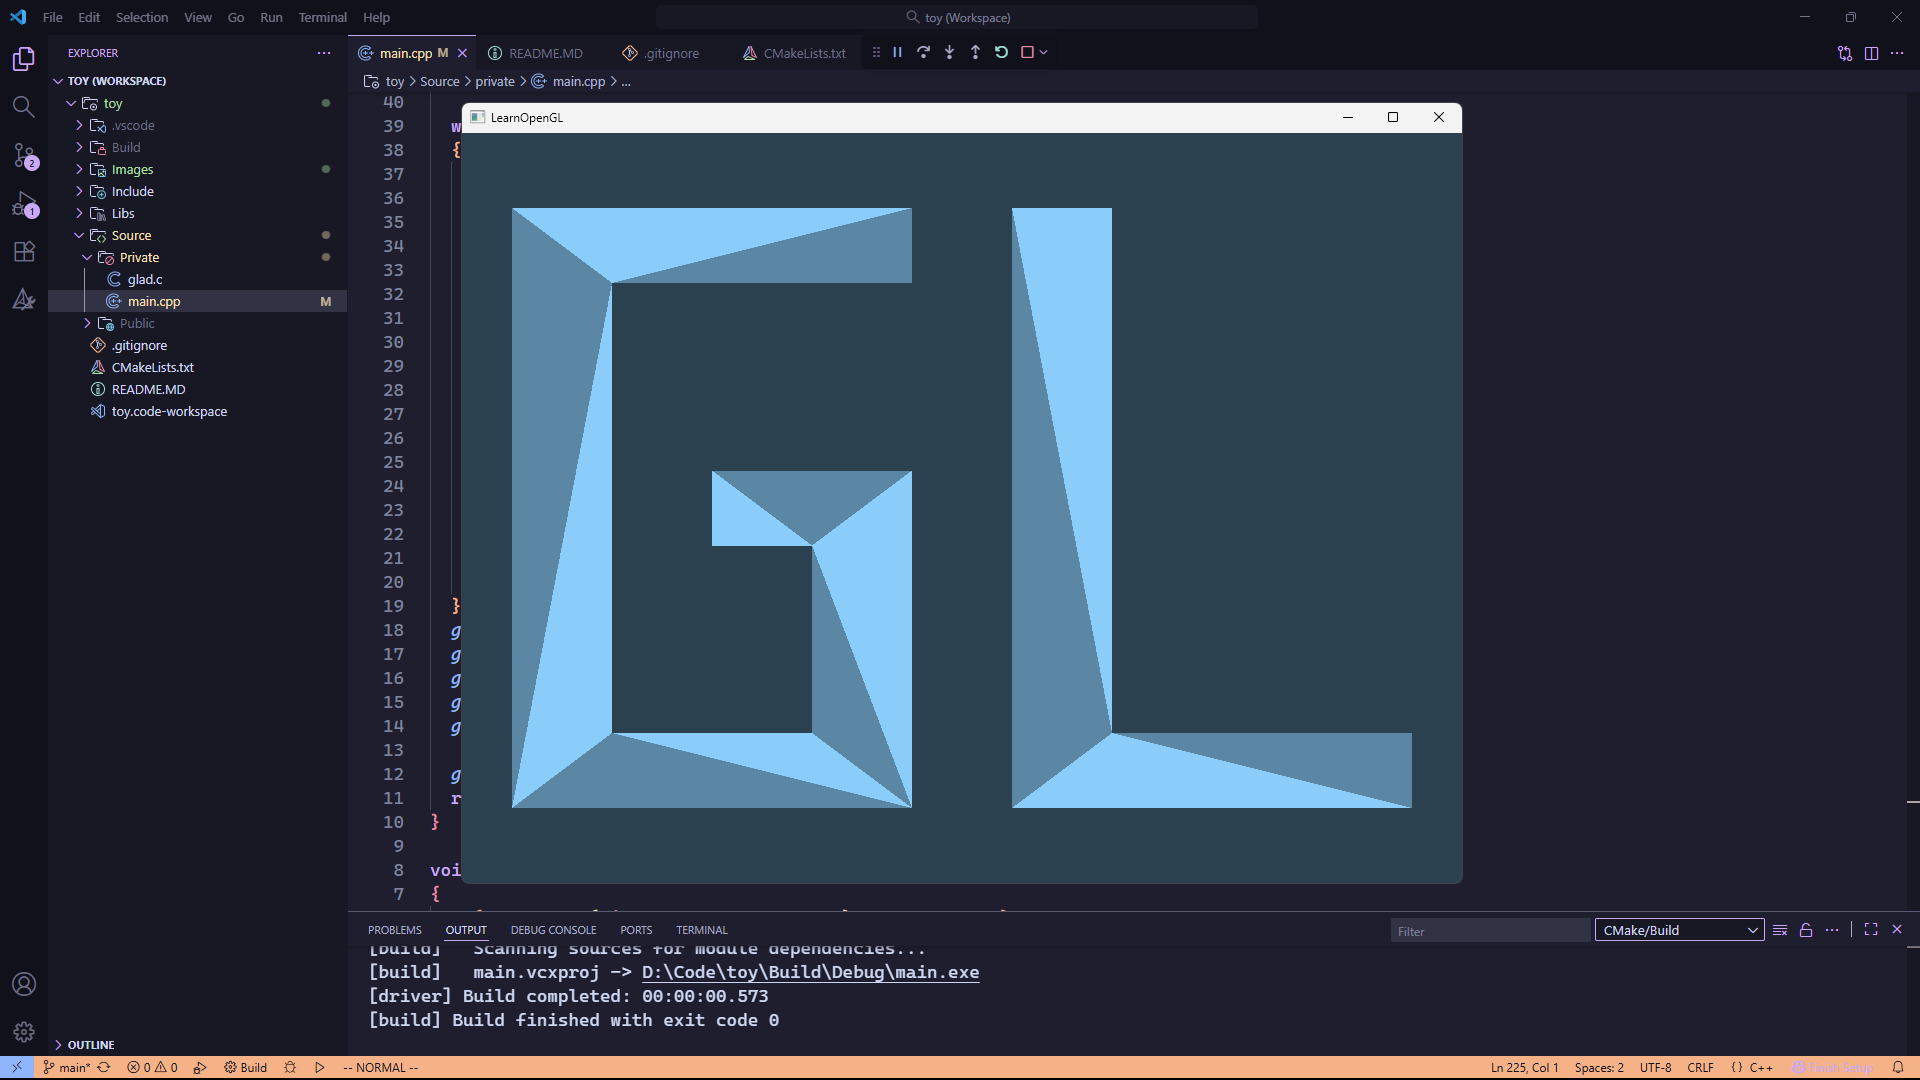
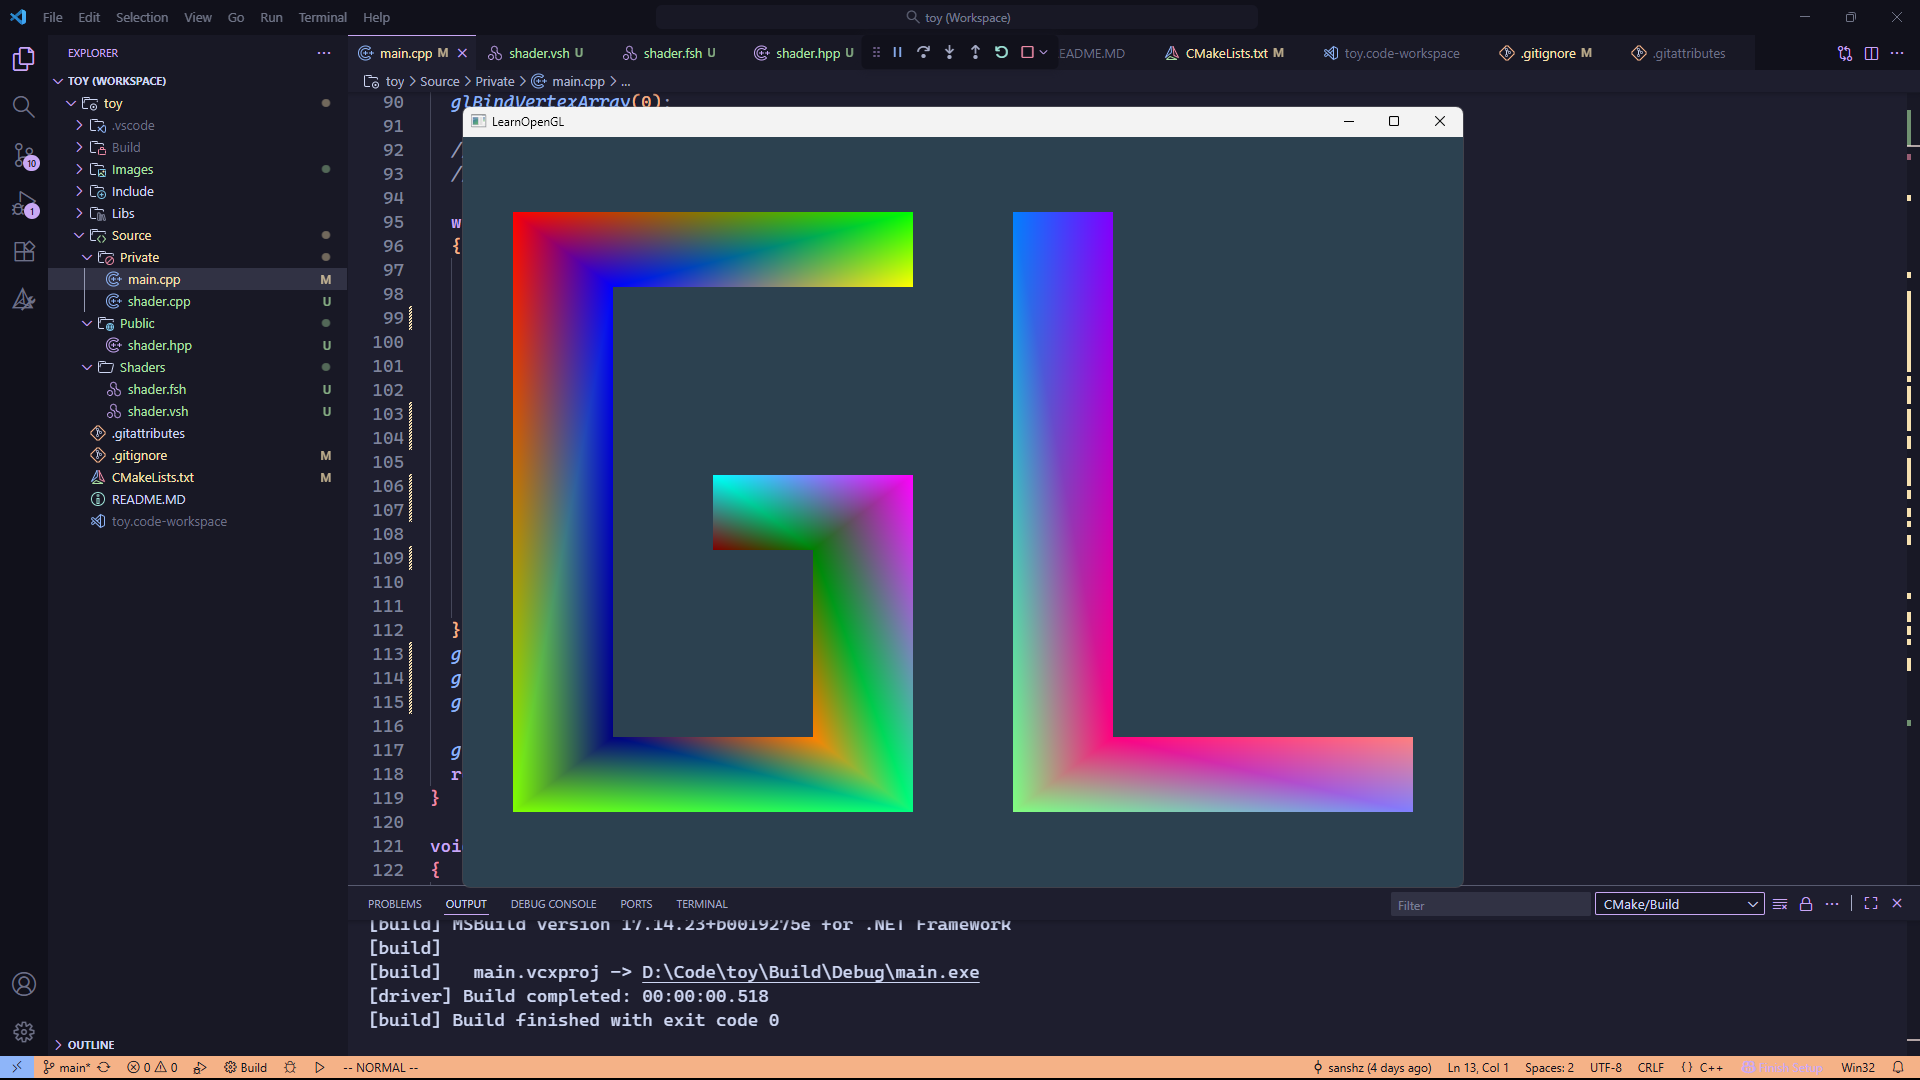
`Shader` class and `GLSL` also `uniform`

diff --git a/Source/Private/main.cpp b/Source/Private/main.cpp
@@ -3,38 +3,16 @@
 
 #include <iostream>
 
+#include "shader.hpp"
+
+namespace Screen
+{
+  const unsigned int width {1000};
+  const unsigned int height {750};
+}
+
 void framebuffer_size_callback(GLFWwindow* window, int width, int height);
 void processInput(GLFWwindow* window);
-
-const char* vertexShaderSource 
-{
-  "#version 330 core\n"
-  "layout (location = 0) in vec3 aPos;\n"
-  "void main()\n"
-  "{\n"
-  "  gl_Position = vec4(aPos.x, aPos.y, aPos.z, 1.0f);\n"
-  "}\0"
-};
-
-const char* fragmentShaderSourceA
-{
-  "#version 330 core\n"
-  "out vec4 FragColor;\n"
-  "void main()\n"
-  "{\n"
-  "  FragColor = vec4(0.3568f, 0.5294f, 0.6470f, 1.0f);\n"
-  "}\0"
-};
-
-const char* fragmentShaderSourceB
-{
-  "#version 330 core\n"
-  "out vec4 FragColor;\n"
-  "void main()\n"
-  "{\n"
-  "  FragColor = vec4(0.5411f, 0.8039f, 0.9803f, 1.0f);\n"
-  "}\0"
-};
 
 int main()
 {
@@ -43,7 +21,7 @@ int main()
   glfwWindowHint(GLFW_CONTEXT_VERSION_MINOR, 3);
   glfwWindowHint(GLFW_OPENGL_PROFILE, GLFW_OPENGL_CORE_PROFILE);
 
-  GLFWwindow* window {glfwCreateWindow(800, 600, "LearnOpenGL", NULL, NULL)};
+  GLFWwindow* window {glfwCreateWindow(Screen::width, Screen::height, "LearnOpenGL", NULL, NULL)};
   if (window == NULL)
   {
     std::cout << "Failed to create GLFW window" << std::endl;
@@ -60,121 +38,66 @@ int main()
     return -1;
   }
 
-  unsigned int vertexShader {glCreateShader(GL_VERTEX_SHADER)};
-  glShaderSource(vertexShader, 1, &vertexShaderSource, NULL);
-  glCompileShader(vertexShader);
-
-  int success;
-  char infoLog[512];
-  glGetShaderiv(vertexShader, GL_COMPILE_STATUS, &success);
-  if(!success)
-  {
-    glGetShaderInfoLog(vertexShader, 512, NULL, infoLog);
-    std::cout << "ERROR::SHADER::VERTEX::COMPILATION_FAILED\n" << infoLog << std::endl;
-  }
-
-  unsigned int fragmentShaderA {glCreateShader(GL_FRAGMENT_SHADER)};
-  glShaderSource(fragmentShaderA, 1, &fragmentShaderSourceA, NULL);
-  glCompileShader(fragmentShaderA);
-
-  glGetShaderiv(fragmentShaderA, GL_COMPILE_STATUS, &success);
-  if(!success)
-  {
-    glGetShaderInfoLog(fragmentShaderA, 512, NULL, infoLog);
-    std::cout << "ERROR::SHADER::FRAGMENT::COMPILATION_FAILED\n" << infoLog << std::endl;
-  }
-
-  unsigned int fragmentShaderB {glCreateShader(GL_FRAGMENT_SHADER)};
-  glShaderSource(fragmentShaderB, 1, &fragmentShaderSourceB, NULL);
-  glCompileShader(fragmentShaderB);
-
-  unsigned int shaderProgramA {glCreateProgram()};
-  glAttachShader(shaderProgramA, vertexShader);
-  glAttachShader(shaderProgramA, fragmentShaderA);
-  glLinkProgram(shaderProgramA);
-
-  glGetProgramiv(shaderProgramA, GL_LINK_STATUS, &success);
-  if(!success)
-  {
-    glGetProgramInfoLog(shaderProgramA, 512, NULL, infoLog);
-    std::cout << "ERROR::SHADER::LINK_FAILED\n" << infoLog << std::endl;
-  }
-
-  unsigned int shaderProgramB {glCreateProgram()};
-  glAttachShader(shaderProgramB, vertexShader);
-  glAttachShader(shaderProgramB, fragmentShaderB);
-  glLinkProgram(shaderProgramB);
-
-  glDeleteShader(vertexShader);
-  glDeleteShader(fragmentShaderA);
-  glDeleteShader(fragmentShaderB);
+  Shader myShader {"..\\..\\Source\\Shaders\\shader.vsh", "..\\..\\Source\\Shaders\\shader.fsh"};
 
   float vertices[]
   {
-    -0.9f,  0.8f, 0.0f,
-    -0.1f,  0.8f, 0.0f,
-    -0.7f,  0.6f, 0.0f,
-    -0.1f,  0.6f, 0.0f,
-    -0.5f,  0.1f, 0.0f,
-    -0.1f,  0.1f, 0.0f,
-    -0.5f, -0.1f, 0.0f,
-    -0.3f, -0.1f, 0.0f,
-    -0.7f, -0.6f, 0.0f,
-    -0.3f, -0.6f, 0.0f,
-    -0.9f, -0.8f, 0.0f,
-    -0.1f, -0.8f, 0.0f,
-     0.1f,  0.8f, 0.0f,
-     0.3f,  0.8f, 0.0f,
-     0.3f, -0.6f, 0.0f,
-     0.9f, -0.6f, 0.0f,
-     0.1f, -0.8f, 0.0f,
-     0.9f, -0.8f, 0.0f
+    -0.9f,  0.8f, 0.0f, 1.0f, 0.0f, 0.0f,
+    -0.1f,  0.8f, 0.0f, 0.0f, 1.0f, 0.0f,
+    -0.7f,  0.6f, 0.0f, 0.0f, 0.0f, 1.0f,
+    -0.1f,  0.6f, 0.0f, 1.0f, 1.0f, 0.0f,
+    -0.5f,  0.1f, 0.0f, 0.0f, 1.0f, 1.0f,
+    -0.1f,  0.1f, 0.0f, 1.0f, 0.0f, 1.0f,
+    -0.5f, -0.1f, 0.0f, 0.5f, 0.0f, 0.0f,
+    -0.3f, -0.1f, 0.0f, 0.0f, 0.5f, 0.0f,
+    -0.7f, -0.6f, 0.0f, 0.0f, 0.0f, 0.5f,
+    -0.3f, -0.6f, 0.0f, 1.0f, 0.5f, 0.0f,
+    -0.9f, -0.8f, 0.0f, 0.5f, 1.0f, 0.0f,
+    -0.1f, -0.8f, 0.0f, 0.0f, 1.0f, 0.5f,
+     0.1f,  0.8f, 0.0f, 0.0f, 0.5f, 1.0f,
+     0.3f,  0.8f, 0.0f, 0.5f, 0.0f, 1.0f,
+     0.3f, -0.6f, 0.0f, 1.0f, 0.0f, 0.5f,
+     0.9f, -0.6f, 0.0f, 1.0f, 0.5f, 0.5f,
+     0.1f, -0.8f, 0.0f, 0.5f, 1.0f, 0.5f,
+     0.9f, -0.8f, 0.0f, 0.5f, 0.5f, 1.0f
   };
-  unsigned int indicesA[]
+  unsigned int indices[]
   {
-     1,  3,  2,
-     2,  0, 10,
-    10,  8, 11,
-    11,  9,  7,
-     7,  5,  4,
-    12, 16, 14,
-    14, 15, 17,
-  };
-  unsigned int indicesB[]
-  {
-     1,  0,  2,
-     2, 10,  8,
+     0,  1,  2,
+     1,  2,  3,
+     2,  8, 10,
+     0,  2, 10,
      8,  9, 11,
-    11,  5,  7,
-     7,  6,  4,
+     8, 10, 11,
+     5,  7, 11,
+     7,  9, 11,
+     4,  6,  7,
+     4,  5,  7,
     12, 13, 14,
-    14, 16, 17
+    12, 14, 16,
+    14, 16, 17,
+    14, 15, 17
   };
 
-  unsigned int VAO[2];
-  unsigned int VBO[2];
-  unsigned int EBO[2];
-  glGenVertexArrays(2, VAO);
-  glGenBuffers(2, VBO);
-  glGenBuffers(2, EBO);
+  unsigned int VAO;
+  unsigned int VBO;
+  unsigned int EBO;
+  glGenVertexArrays(1, &VAO);
+  glGenBuffers(1, &VBO);
+  glGenBuffers(1, &EBO);
 
-  glBindVertexArray(VAO[0]);
-  glBindBuffer(GL_ARRAY_BUFFER, VBO[0]);
+  glBindVertexArray(VAO);
+  glBindBuffer(GL_ARRAY_BUFFER, VBO);
   glBufferData(GL_ARRAY_BUFFER, sizeof(vertices), vertices, GL_STATIC_DRAW);
 
-  glBindBuffer(GL_ELEMENT_ARRAY_BUFFER, EBO[0]);
-  glBufferData(GL_ELEMENT_ARRAY_BUFFER, sizeof(indicesA), indicesA, GL_STATIC_DRAW);
+  glBindBuffer(GL_ELEMENT_ARRAY_BUFFER, EBO);
+  glBufferData(GL_ELEMENT_ARRAY_BUFFER, sizeof(indices), indices, GL_STATIC_DRAW);
 
-  glVertexAttribPointer(0, 3, GL_FLOAT, GL_FALSE, 3 * sizeof(float), (void*)0);
+  glVertexAttribPointer(0, 3, GL_FLOAT, GL_FALSE, 6 * sizeof(float), (void*)0);
   glEnableVertexAttribArray(0);
 
-  glBindVertexArray(VAO[1]);
-  glBindBuffer(GL_ARRAY_BUFFER, VBO[1]);
-  glBufferData(GL_ARRAY_BUFFER, sizeof(vertices), vertices, GL_STATIC_DRAW);
-  glBindBuffer(GL_ELEMENT_ARRAY_BUFFER, EBO[1]);
-  glBufferData(GL_ELEMENT_ARRAY_BUFFER, sizeof(indicesB), indicesB, GL_STATIC_DRAW);
-  glVertexAttribPointer(0, 3, GL_FLOAT, GL_FALSE, 3 * sizeof(float), (void*)0);
-  glEnableVertexAttribArray(0);
+  glVertexAttribPointer(1, 3, GL_FLOAT, GL_FALSE, 6 * sizeof(float), (void*)(3 * sizeof(float)));
+  glEnableVertexAttribArray(1);
 
   glBindBuffer(GL_ARRAY_BUFFER, 0);
   glBindVertexArray(0);
@@ -186,28 +109,23 @@ int main()
   {
     // input
     processInput(window);
-
+    
     // rendering
     glClearColor(0.1725f, 0.2549f, 0.3137f, 1.0f);
     glClear(GL_COLOR_BUFFER_BIT);
+    
+    myShader.use();
 
-    glUseProgram(shaderProgramA);
-    glBindVertexArray(VAO[0]);
-    glDrawElements(GL_TRIANGLES, 21, GL_UNSIGNED_INT, 0);
+    glBindVertexArray(VAO);
+    glDrawElements(GL_TRIANGLES, std::size(indices), GL_UNSIGNED_INT, 0);
 
-    glUseProgram(shaderProgramB);
-    glBindVertexArray(VAO[1]);
-    glDrawElements(GL_TRIANGLES, 21, GL_UNSIGNED_INT, 0);
-
-    // check and call events and swap the buffers
+    // swap the buffers and check and call events
     glfwSwapBuffers(window);
     glfwPollEvents();
   }
-  glDeleteVertexArrays(2, VAO);
-  glDeleteBuffers(2, VBO);
-  glDeleteBuffers(2, EBO);
-  glDeleteProgram(shaderProgramA);
-  glDeleteProgram(shaderProgramB);
+  glDeleteVertexArrays(1, &VAO);
+  glDeleteBuffers(1, &VBO);
+  glDeleteBuffers(1, &EBO);
 
   glfwTerminate();
   return 0;
@@ -219,5 +137,6 @@ void processInput(GLFWwindow* window)
   { glfwSetWindowShouldClose(window, true); }
 
 }
+
 void framebuffer_size_callback(GLFWwindow* window, int width, int height)
 { glViewport(0, 0, width, height); }

diff --git a/Source/Private/shader.cpp b/Source/Private/shader.cpp
@@ -1,0 +1,91 @@
+#include "shader.hpp"
+
+#include <fstream>
+#include <sstream>
+#include <iostream>
+
+#include "glad/glad.h"
+
+Shader::Shader(const char* vertexPath, const char* fragmentPath)
+{
+  std::string vertexCode;
+  std::string fragmentCode;
+  std::ifstream vShaderFile;
+  std::ifstream fShaderFile;
+
+  vShaderFile.exceptions(std::ifstream::failbit | std::ifstream::badbit);
+  fShaderFile.exceptions(std::ifstream::failbit | std::ifstream::badbit);
+  try
+  {
+    vShaderFile.open(vertexPath);
+    fShaderFile.open(fragmentPath);
+    std::stringstream vShaderStream, fShaderStream;
+
+    vShaderStream << vShaderFile.rdbuf();
+    fShaderStream << fShaderFile.rdbuf();
+
+    vShaderFile.close();
+    fShaderFile.close();
+
+    vertexCode = vShaderStream.str();
+    fragmentCode = fShaderStream.str();
+  }
+  catch(std::ifstream::failure e)
+  { std::cout << "ERROR::SHADER::FILE_NOT_SUCCESSFULLY_READ" << std::endl; }
+
+  const char* vShaderCode {vertexCode.c_str()};
+  const char* fShaderCode {fragmentCode.c_str()};
+
+  // Compile Shaders
+  int success;
+  char infoLog[512];
+
+  unsigned int vertex {glCreateShader(GL_VERTEX_SHADER)};
+  glShaderSource(vertex, 1, &vShaderCode, NULL);
+  glCompileShader(vertex);
+
+  glGetShaderiv(vertex, GL_COMPILE_STATUS, &success);
+  if (!success)
+  {
+    glGetShaderInfoLog(vertex, 512, NULL, infoLog);
+    std::cout << "ERROR::SHADER::VERTEX::COMPILATION_FAILED\n" << infoLog << std::endl;
+  }
+
+  unsigned int fragment {glCreateShader(GL_FRAGMENT_SHADER)};
+  glShaderSource(fragment, 1, &fShaderCode, NULL);
+  glCompileShader(fragment);
+
+  glGetShaderiv(fragment, GL_COMPILE_STATUS, &success);
+  if (!success)
+  {
+    glGetShaderInfoLog(fragment, 512, NULL, infoLog);
+    std::cout << "ERROR:SHADER::FRAGMENT::COMPILATION_FAILED\n" << infoLog << std::endl;
+  }
+
+  m_ID = glCreateProgram();
+  glAttachShader(m_ID, vertex);
+  glAttachShader(m_ID, fragment);
+  glLinkProgram(m_ID);
+
+  glGetProgramiv(m_ID, GL_LINK_STATUS, &success);
+  if (!success)
+  {
+    glGetProgramInfoLog(m_ID, 512, NULL, infoLog);
+    std::cout << "ERROR::SHADER::PROGRAM::LINKING_FAILED\n" << infoLog << std::endl;
+  }
+
+  glDeleteShader(vertex);
+  glDeleteShader(fragment);
+}
+
+void Shader::use()
+{ glUseProgram(m_ID); }
+
+void Shader::setBool(const std::string& name, bool value) const
+{ glUniform1i(glGetUniformLocation(m_ID, name.c_str()), static_cast<int>(value)); }
+
+void Shader::setInt(const std::string& name, int value) const
+{ glUniform1i(glGetUniformLocation(m_ID, name.c_str()), value); }
+
+void Shader::setFloat(const std::string& name, float value) const
+{ glUniform1f(glGetUniformLocation(m_ID, name.c_str()), value); }

diff --git a/Source/Public/shader.hpp b/Source/Public/shader.hpp
@@ -1,0 +1,21 @@
+#ifndef SHADER_HPP
+#define SHADER_HPP
+
+#include <string>
+
+class Shader
+{
+public:
+  unsigned int m_ID;
+
+public:
+  Shader(const char* vertexPath, const char* fragmentPath);
+
+  void use();
+
+  void setBool(const std::string& name, bool value) const;
+  void setInt(const std::string& name, int value) const;
+  void setFloat(const std::string& name, float value) const;
+};
+
+#endif

diff --git a/README.MD b/README.MD
@@ -6,9 +6,8 @@ Currently using `learnopengl.com` resource for basics
 ## Gallery
 ![OpenGL](Images/gl.png)
 
-![Exercise](Images/exercise.png)
-
-<img src="Images/sketch.png" title="Sketch" width="200">
+<img src="Images/exercise00.png" title="ExerciseA" width="400">
+<img src="Images/exercise01.png" title="ExerciseB" width="400">
 
 ## Third Party Libraries
 - GLFW
